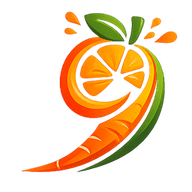
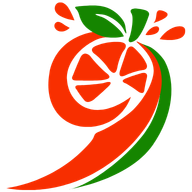
hi

diff --git a/index.html b/index.html
@@ -191,11 +191,67 @@
 
 <body class="bg-sand-50 text-charcoal-800 font-body antialiased pb-24 lg:pb-0">
 
+
+  <!-- Splash screen animé -->
+<div id="splash-screen">
+  <img src="icon-512.png" alt="Swi9ti" id="splash-logo">
+</div>
+
+<style>
+  #splash-screen {
+    position: fixed;
+    inset: 0;
+    background: #FBF6EC; /* même couleur que ton background_color */
+    display: flex;
+    align-items: center;
+    justify-content: center;
+    z-index: 9999;
+    transition: opacity 0.4s ease-out;
+  }
+
+  #splash-logo {
+    width: 120px;
+    height: 120px;
+    animation: splashPop 1s ease-out forwards;
+  }
+
+  @keyframes splashPop {
+    0% {
+      opacity: 0;
+      transform: scale(0.6);
+    }
+    60% {
+      opacity: 1;
+      transform: scale(1.08);
+    }
+    100% {
+      opacity: 1;
+      transform: scale(1);
+    }
+  }
+
+  #splash-screen.hide {
+    opacity: 0;
+    pointer-events: none;
+  }
+</style>
+
+<script>
+  window.addEventListener('load', () => {
+    setTimeout(() => {
+      const splash = document.getElementById('splash-screen');
+      splash.classList.add('hide');
+      setTimeout(() => splash.remove(), 400); // laisse le temps au fade de finir
+    }, 1200); // durée totale avant de disparaître
+  });
+</script>
+
+
   <!-- ===== PRELOADER ===== -->
   <div id="preloader" role="status" aria-live="polite" class="fixed inset-0 z-[100] bg-white flex flex-col items-center justify-center gap-6 transition-opacity duration-500">
     <img src="LOGO.svg" alt="" class="w-34 h-34 sm:w-50 sm:h-50 object-contain">
     <div class="w-40 sm:w-48 h-1.5 rounded-full bg-green-100 overflow-hidden">
-      <div id="preloaderBar" class="h-full bg-green-600 rounded-full" style="width:0%; transition: width .3s ease;"></div>
+      <div id="preloaderBar" class="h-full bg-gradient-to-r from-orange-600 to-green-600 rounded-full" style="width:0%; transition: width .3s ease;"></div>
     </div>
     <span class="sr-only">كيتحمل...</span>
   </div>